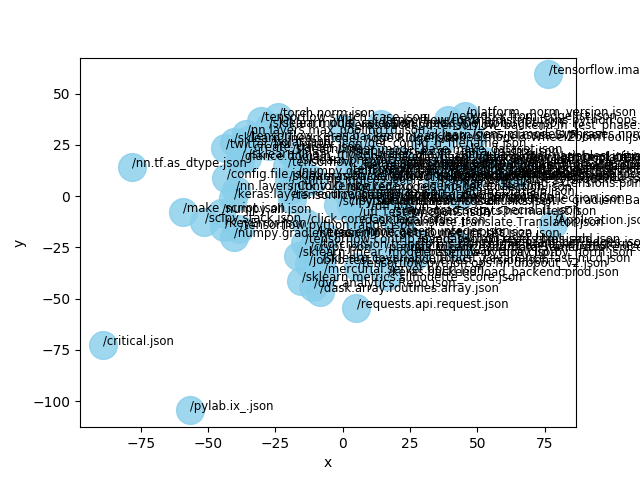
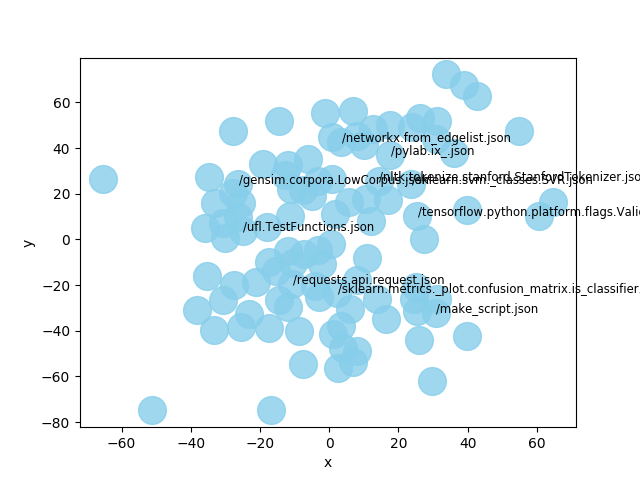
Scrum update

diff --git a/embeddingsTest/lsaevaltnse.py b/embeddingsTest/lsaevaltnse.py
@@ -29,7 +29,7 @@ plt.autoscale(enable=True)
 df=pd.DataFrame({'x':tsne_results[:,0],'y':tsne_results[:,1],'group':moduleArr[0:-1]})
 #sns_plt=sns.regplot(data=df, x="x", y="y", fit_reg=False, marker="+", color="skyblue")
 p1=sns.regplot(data=df, x="x", y="y", fit_reg=False, marker="o", color="skyblue", scatter_kws={'s':400})
-for line in range(0,df.shape[0]):
+for line in range(0,10):
          p1.text(df.x[line]+0.2, df.y[line], df.group[line], horizontalalignment='left', size='small', color='black')
 figure = p1.get_figure()    
 
